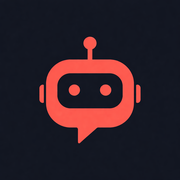
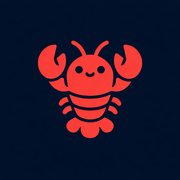
save

Changed region(s): [[0.1944, 0.1944, 0.8056, 0.8056]]

diff --git a/scripts/create_clawd_bot_logo.py b/scripts/create_clawd_bot_logo.py
@@ -19,21 +19,23 @@ client = OpenAI(api_key=api_key, base_url=base_url)
 def generate_logo(output_path="public/logo-original.png"):
     """生成 Clawd Bot logo"""
     
-    # Logo 设计提示词：极简风格、扁平化、AI 助手主题
-    prompt = """Design a minimalist, flat-style square logo for "Clawd Bot" - a personal AI assistant.
+    # Logo 设计提示词：极简风格、扁平化、龙虾主题
+    prompt = """Design a minimalist, flat-style square logo featuring a stylized LOBSTER for "Clawd Bot" brand.
 
 Requirements:
-- Extremely simple and clean design
+- Extremely simple and clean lobster silhouette design
 - Flat design style, no gradients or 3D effects
-- Use a stylized robot head or chat bubble icon
-- Primary color: bright coral red (#FF4D4D) on dark background (#050810)
-- The icon should be centered and fill about 70% of the canvas
-- No text, just the icon/symbol
+- Use a cute, friendly, cartoon-style lobster icon
+- Primary color: bright coral red (#FF4D4D) on dark navy background (#050810)
+- The lobster icon should be centered and fill about 65% of the canvas
+- No text, just the lobster icon/symbol
 - Should work well at small sizes (16x16 favicon)
 - Modern, tech-forward aesthetic
-- Sharp, geometric shapes
+- The lobster should look friendly and approachable, not realistic
+- Simple geometric shapes, minimal details
+- Similar style to emoji 🦞 but more stylized and logo-friendly
 
-Style reference: Similar to Discord, Slack, or Telegram app icons - simple, recognizable, bold."""
+Style reference: Think of app icons like Discord mascot or Twitter bird - simple, bold, instantly recognizable silhouette."""
 
     print("正在生成 Clawd Bot logo...")
     print(f"API: {base_url}")
